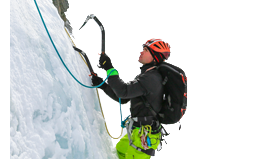
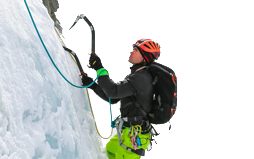
progression activites (plus que l'image du skieur a positionner et la police à mettre)

diff --git a/public/css/activites/activites.css b/public/css/activites/activites.css
@@ -1,3 +1,7 @@
+.acitivites-container {
+    font-family: Avenir Light;
+}
+
 .activites-container img {
     width: 100%;
     height: auto;
@@ -6,6 +10,7 @@
 .activites-container h1 {
     margin-top: 3%;
     margin-bottom: 3%;
+    font-size: 44px;
 }
 
 #page_activites {
@@ -24,7 +29,7 @@
     text-align: center;
     margin: auto;
     padding-bottom: 1%;
-    font-size: 18px;
+    font-size: 30px;
     font-family: "DroidSerif";
     line-height: 1.5;
     font-weight: bold;
@@ -32,8 +37,9 @@
 
 #page_activites p {
     text-align: justify;
-    padding-left: 3%;
-    padding-right: 3%;
+    font-size: 16px;
+    padding-left: 5%;
+    padding-right: 5%;
 }
 
 #page_activites a {
@@ -45,19 +51,14 @@
     padding: 0%;
 }
 
-div[class="alpinisme"] {
-    padding: 0%;
-}
-
 .alpinisme img {
-    width: 50%;
-    height: auto;
-    margin: 0%;
+    width: auto;
+    height: 100%;
 }
 
 img[class="ski"] {
-    width: 50%;
-    height: auto;
+    width: auto;
+    height: 100%;
     margin-bottom: 10%;
 }
 
